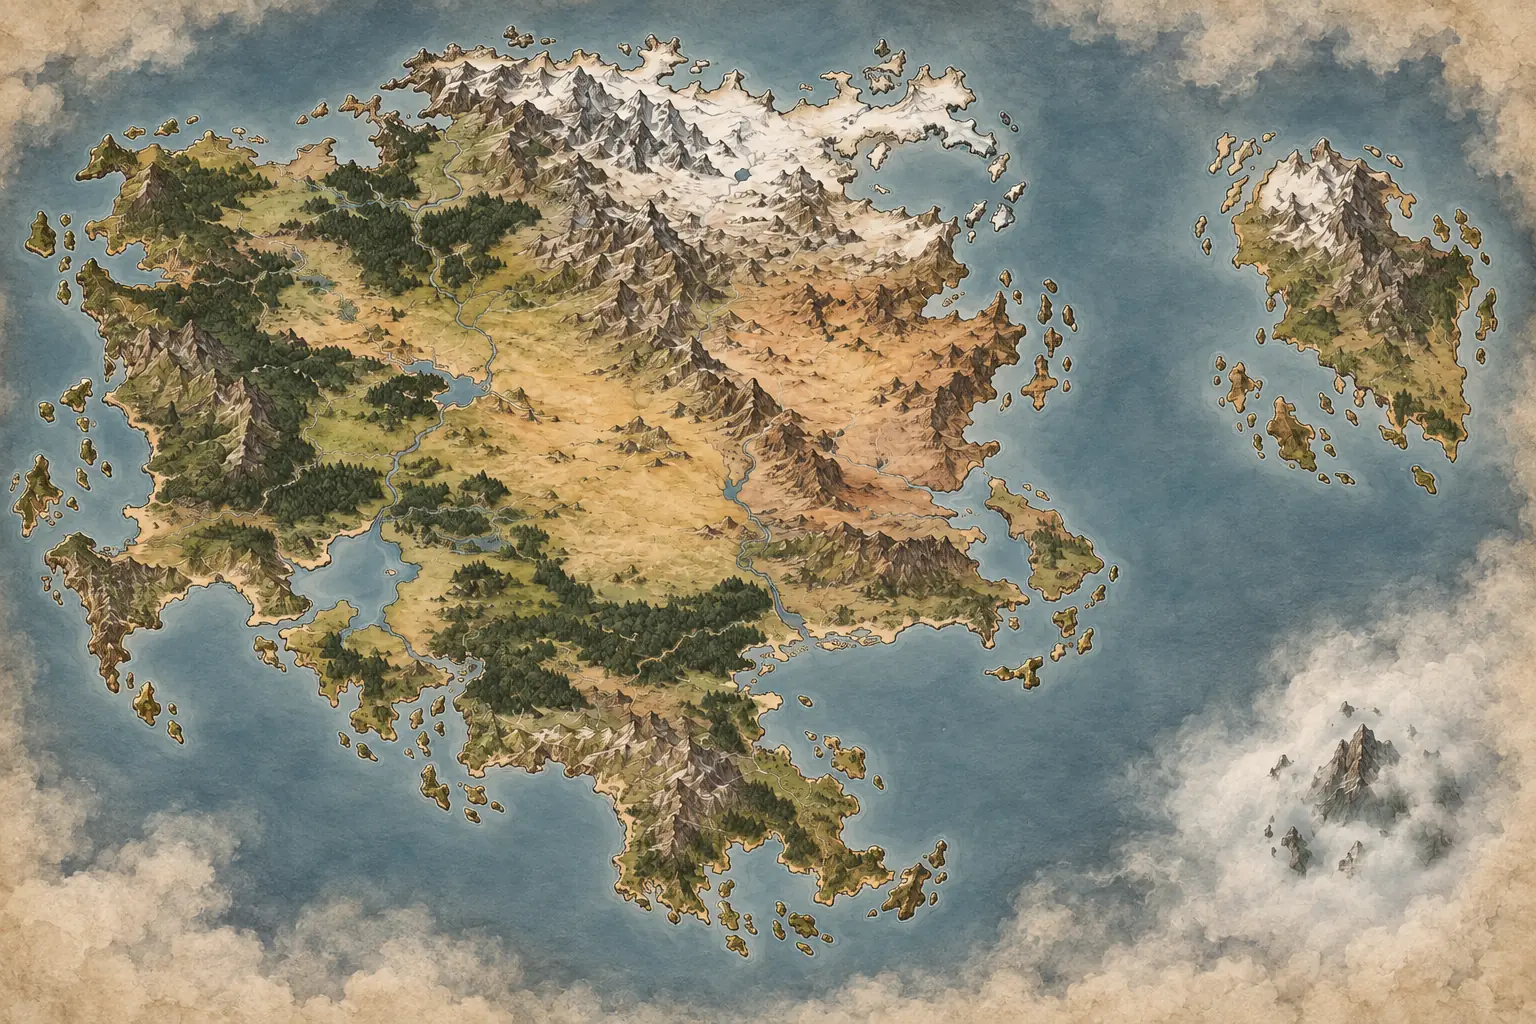
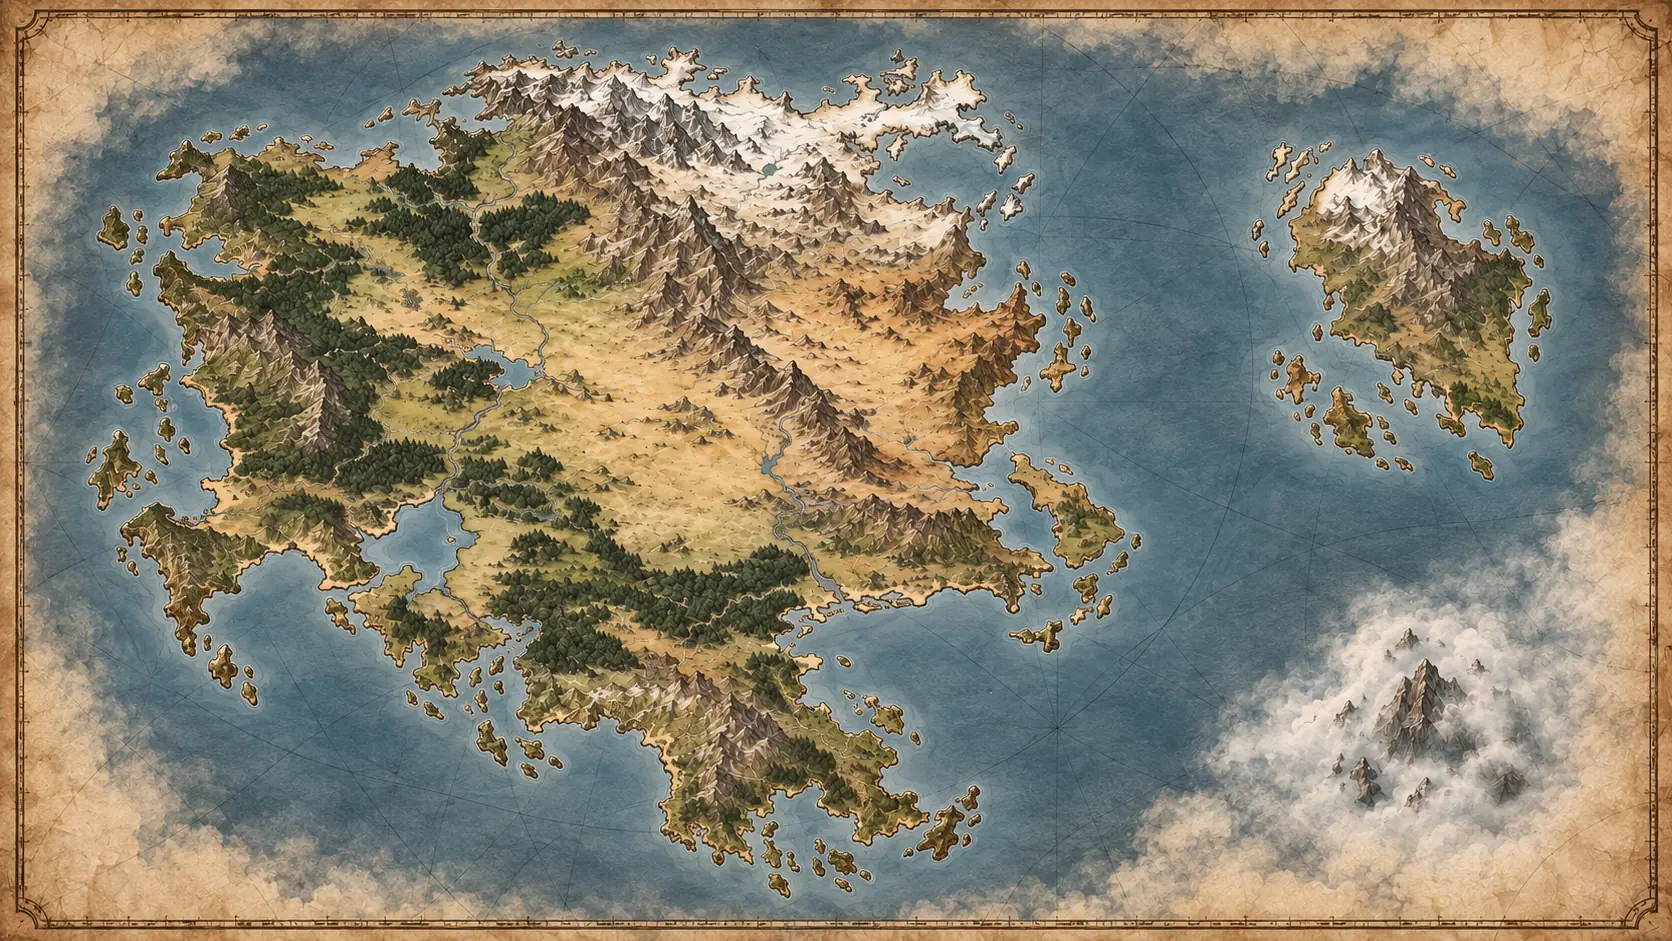
Intègre la nouvelle planche cartographique

diff --git a/resume.html b/resume.html
@@ -92,7 +92,7 @@
         <button class="power-card" role="tab" aria-selected="false" data-power="odren" style="--thumb:url('assets/powers-atlas.webp');--thumb-size:600% auto;--pos:80% center"><span class="power-thumb"></span><span>Odren</span></button>
         <button class="power-card" role="tab" aria-selected="false" data-power="ailleurs" style="--thumb:url('assets/powers-atlas.webp');--thumb-size:600% auto;--pos:100% center"><span class="power-thumb"></span><span>Autres territoires</span></button>
       </div>
-      <div class="power-detail frame" aria-live="polite"><div class="power-copy"><div class="power-heading"><h2 id="power-name">Veyren</h2><p class="power-role" id="power-role">Vieille capitale maritime</p><p class="power-desc" id="power-desc">Cité beaucoup plus ancienne que la monarchie, Veyren s’est accumulée autour d’une immense baie. Son véritable symbole de puissance est l’Arsenal : une ville industrielle dans la ville, capable de construire, réparer et armer une flotte entière.</p><div class="mini-map" id="power-map" data-location="Baie de Veyren" style="--map-pos:40% 68%;--pin-x:52%;--label-x:56%"></div></div><div class="power-facts"><div class="power-fact"><span class="power-icon"><svg><use id="power-org-icon" href="#i-crown"/></svg></span><span><strong>Organisation</strong><span id="power-org">Monarchie du Premier Gardien</span></span></div><div class="power-fact"><span class="power-icon"><svg><use id="power-activity-icon" href="#i-industry"/></svg></span><span><strong>Activités principales</strong><span id="power-activity">Construction navale, administration, commerce</span></span></div><div class="power-fact"><span class="power-icon"><svg><use id="power-trait-icon" href="#i-lighthouse"/></svg></span><span><strong>Particularités</strong><span id="power-trait">L’Arsenal et les anciens nœuds du Courant</span></span></div><div class="power-fact"><span class="power-icon"><svg><use id="power-relation-icon" href="#i-current"/></svg></span><span><strong>Relations</strong><span id="power-relation">Influence ancienne, supériorité navale contestée</span></span></div></div></div><div class="power-visual"><div class="power-visual-image" id="power-visual" style="--visual:url('assets/powers-atlas.webp');--visual-size:600% auto;--visual-pos:0% center"></div><a class="detail-link" href="/" id="power-link">Voir sur la carte →</a></div></div>
+      <div class="power-detail frame" aria-live="polite"><div class="power-copy"><div class="power-heading"><h2 id="power-name">Veyren</h2><p class="power-role" id="power-role">Vieille capitale maritime</p><p class="power-desc" id="power-desc">Cité beaucoup plus ancienne que la monarchie, Veyren s’est accumulée autour d’une immense baie. Son véritable symbole de puissance est l’Arsenal : une ville industrielle dans la ville, capable de construire, réparer et armer une flotte entière.</p><div class="mini-map" id="power-map" data-location="Baie de Veyren" style="--map-pos:40% 56%;--pin-x:52%;--label-x:56%"></div></div><div class="power-facts"><div class="power-fact"><span class="power-icon"><svg><use id="power-org-icon" href="#i-crown"/></svg></span><span><strong>Organisation</strong><span id="power-org">Monarchie du Premier Gardien</span></span></div><div class="power-fact"><span class="power-icon"><svg><use id="power-activity-icon" href="#i-industry"/></svg></span><span><strong>Activités principales</strong><span id="power-activity">Construction navale, administration, commerce</span></span></div><div class="power-fact"><span class="power-icon"><svg><use id="power-trait-icon" href="#i-lighthouse"/></svg></span><span><strong>Particularités</strong><span id="power-trait">L’Arsenal et les anciens nœuds du Courant</span></span></div><div class="power-fact"><span class="power-icon"><svg><use id="power-relation-icon" href="#i-current"/></svg></span><span><strong>Relations</strong><span id="power-relation">Influence ancienne, supériorité navale contestée</span></span></div></div></div><div class="power-visual"><div class="power-visual-image" id="power-visual" style="--visual:url('assets/powers-atlas.webp');--visual-size:600% auto;--visual-pos:0% center"></div><a class="detail-link" href="/" id="power-link">Voir sur la carte →</a></div></div>
     </section>
     <section class="page" id="system" role="tabpanel" aria-labelledby="tab-system" hidden>
       <div class="intro-row"><div><p class="eyebrow">Le réseau</p><h1>Fonctionnement du monde</h1><p class="subtitle">Un système ancien, utilisé chaque jour, dont la forme reste incomprise.</p></div><p class="lede">Les phares ouvrent des nœuds stables dans le Courant. Les sociétés savent s’en servir et en réparer les mécanismes ; personne ne sait encore où passe réellement l’information entre deux nœuds.</p></div>
@@ -108,10 +108,10 @@
     function activatePage(id,{updateHash=true,focus=false}={}){const safe=pages.some(page=>page.id===id)?id:'overview';mainTabs.forEach(tab=>{const active=tab.dataset.tab===safe;tab.setAttribute('aria-selected',String(active));tab.tabIndex=active?0:-1;if(active&&focus)tab.focus()});pages.forEach(page=>{page.hidden=page.id!==safe;if(page.id===safe){page.style.animation='none';page.offsetHeight;page.style.animation=''}});if(updateHash)history.replaceState(null,'','#'+safe);document.title=({overview:'Vue d’ensemble',powers:'Puissances',system:'Fonctionnement',timeline:'Chronologie'}[safe])+' — La Couronne des Brumes'}
     mainTabs.forEach((tab,index)=>{tab.addEventListener('click',()=>activatePage(tab.dataset.tab));tab.addEventListener('keydown',event=>{if(!['ArrowLeft','ArrowRight','Home','End'].includes(event.key))return;event.preventDefault();let next=index;if(event.key==='ArrowRight')next=(index+1)%mainTabs.length;if(event.key==='ArrowLeft')next=(index-1+mainTabs.length)%mainTabs.length;if(event.key==='Home')next=0;if(event.key==='End')next=mainTabs.length-1;activatePage(mainTabs[next].dataset.tab,{focus:true})})});addEventListener('hashchange',()=>activatePage(location.hash.slice(1),{updateHash:false}));
     const powers={
-      veyren:{name:'Veyren',role:'Vieille capitale maritime',desc:'Plus ancienne que la monarchie, Veyren s’est accumulée autour d’une immense baie. Son véritable symbole de puissance est l’Arsenal : une ville dans la ville capable de construire, réparer et armer une flotte entière.',org:'Monarchie du Premier Gardien',activity:'Construction navale, administration, commerce',trait:'Arsenal et nœuds anciens du Courant',relation:'Influence ancienne, supériorité navale contestée',orgIcon:'crown',activityIcon:'industry',traitIcon:'lighthouse',relationIcon:'current',location:'Baie de Veyren',map:'40% 68%',pin:'52%',label:'56%',visual:"url('assets/powers-atlas.webp')",visualSize:'600% auto',visualPos:'0% center'},
+      veyren:{name:'Veyren',role:'Vieille capitale maritime',desc:'Plus ancienne que la monarchie, Veyren s’est accumulée autour d’une immense baie. Son véritable symbole de puissance est l’Arsenal : une ville dans la ville capable de construire, réparer et armer une flotte entière.',org:'Monarchie du Premier Gardien',activity:'Construction navale, administration, commerce',trait:'Arsenal et nœuds anciens du Courant',relation:'Influence ancienne, supériorité navale contestée',orgIcon:'crown',activityIcon:'industry',traitIcon:'lighthouse',relationIcon:'current',location:'Baie de Veyren',map:'40% 56%',pin:'52%',label:'56%',visual:"url('assets/powers-atlas.webp')",visualSize:'600% auto',visualPos:'0% center'},
       marches:{name:'Les Marches',role:'Frontière occidentale fragmentée',desc:'Dans ces archipels, l’autorité des grands États devient intermittente. Ports improvisés, colonies, compagnies privées, communautés isolées et contrebandiers transforment chaque route en négociation.',org:'Pouvoirs locaux et compagnies',activity:'Exploration, négoce, récupération',trait:'Autorité morcelée, territoires mouvants',relation:'Convoitées par toutes les puissances',orgIcon:'society',activityIcon:'ship',traitIcon:'explore',relationIcon:'shield',location:'Archipels occidentaux',map:'8% 52%',pin:'46%',label:'50%',visual:"url('assets/powers-atlas.webp')",visualSize:'600% auto',visualPos:'20% center'},
-      republique:{name:'République marchande',role:'Puissance du crédit et des routes',desc:'À l’est, une république immensément riche agit par les prêts, les approvisionnements et l’accès aux routes plutôt que par la conquête directe. Elle rend les autres puissances dépendantes.',org:'République marchande',activity:'Crédit, commerce, approvisionnement',trait:'Influence indirecte sur les routes',relation:'Partenaire indispensable, rivale patiente',orgIcon:'commerce',activityIcon:'commerce',traitIcon:'current',relationIcon:'shield',location:'Façade orientale',map:'68% 50%',pin:'54%',label:'58%',visual:"url('assets/powers-atlas.webp')",visualSize:'600% auto',visualPos:'40% center'},
-      nord:{name:'Puissance industrielle du Nord',role:'Nouvelle force navale',desc:'Ses chantiers construisent plus vite et expérimentent de nouvelles méthodes. Cette puissance récente n’a pas le prestige de Veyren, mais elle menace directement sa supériorité technique et navale.',org:'Puissance industrielle récente',activity:'Chantiers, construction, expérimentation',trait:'Production navale en forte croissance',relation:'Concurrente directe de Veyren',orgIcon:'industry',activityIcon:'industry',traitIcon:'ship',relationIcon:'cross',location:'Territoires du Nord',map:'45% 8%',pin:'51%',label:'55%',visual:"url('assets/powers-atlas.webp')",visualSize:'600% auto',visualPos:'60% center'},
+      republique:{name:'République marchande',role:'Puissance du crédit et des routes',desc:'À l’est, une république immensément riche agit par les prêts, les approvisionnements et l’accès aux routes plutôt que par la conquête directe. Elle rend les autres puissances dépendantes.',org:'République marchande',activity:'Crédit, commerce, approvisionnement',trait:'Influence indirecte sur les routes',relation:'Partenaire indispensable, rivale patiente',orgIcon:'commerce',activityIcon:'commerce',traitIcon:'current',relationIcon:'shield',location:'Façade orientale',map:'61% 48%',pin:'54%',label:'58%',visual:"url('assets/powers-atlas.webp')",visualSize:'600% auto',visualPos:'40% center'},
+      nord:{name:'Puissance industrielle du Nord',role:'Nouvelle force navale',desc:'Ses chantiers construisent plus vite et expérimentent de nouvelles méthodes. Cette puissance récente n’a pas le prestige de Veyren, mais elle menace directement sa supériorité technique et navale.',org:'Puissance industrielle récente',activity:'Chantiers, construction, expérimentation',trait:'Production navale en forte croissance',relation:'Concurrente directe de Veyren',orgIcon:'industry',activityIcon:'industry',traitIcon:'ship',relationIcon:'cross',location:'Territoires du Nord',map:'47% 16%',pin:'51%',label:'55%',visual:"url('assets/powers-atlas.webp')",visualSize:'600% auto',visualPos:'60% center'},
       odren:{name:'Odren',role:'Empire maritime extérieur',desc:'Séparé du continent principal, Odren appartient à une autre aire maritime du monde connu. Téras reste sa capitale historique, tandis que la Couronne de Sillage porte une partie du gouvernement impérial.',org:'Empire maritime · Premier Continuant',activity:'Navigation, expansion, administration',trait:'Téras et la Couronne de Sillage',relation:'Échanges, rivalité et méfiance',orgIcon:'crown',activityIcon:'ship',traitIcon:'explore',relationIcon:'current',location:'Autre aire maritime',map:'87% 20%',pin:'55%',label:'59%',visual:"url('assets/powers-atlas.webp')",visualSize:'600% auto',visualPos:'80% center'},
       ailleurs:{name:'Autres territoires',role:'Le monde ne s’arrête pas aux cartes',desc:'Le monde connu dépasse les puissances déjà nommées. Des peuples, des ports et des régions existent hors du champ immédiat du récit ; la Couronne garde encore d’autres terres hors de portée.',org:'Structures politiques diverses',activity:'Échanges locaux et routes inconnues',trait:'Zones volontairement ouvertes',relation:'Contacts rares ou inexistants',orgIcon:'society',activityIcon:'explore',traitIcon:'question',relationIcon:'ship',location:'Limites du monde publié',map:'50% 50%',pin:'49%',label:'53%',visual:"url('assets/powers-atlas.webp')",visualSize:'600% auto',visualPos:'100% center'}
     };

diff --git a/index.html b/index.html
@@ -219,7 +219,7 @@
       left:50%;
       top:50%;
       width:min(1400px,calc(100% - 26px),130vh);
-      aspect-ratio:3/2;
+      aspect-ratio:16/9;
       transform-origin:center;
       user-select:none;
       will-change:transform;
@@ -693,25 +693,25 @@
           <div id="scene">
             <img src="/world-map-atlas.webp" alt="Carte illustrée sans texte du monde connu de La Couronne des Brumes">
 
-            <button class="marker city" style="--x:40%;--y:68%" data-point="veyren" type="button" aria-label="Ouvrir la fiche de Veyren" aria-pressed="false">
+            <button class="marker city" style="--x:40%;--y:56%" data-point="veyren" type="button" aria-label="Ouvrir la fiche de Veyren" aria-pressed="false">
               <span class="marker-icon" aria-hidden="true"></span><span class="marker-label">Veyren</span>
             </button>
-            <button class="marker city" style="--x:32%;--y:74%" data-point="veyre" type="button" aria-label="Ouvrir la fiche de Veyre" aria-pressed="false">
+            <button class="marker city" style="--x:63%;--y:55%" data-point="veyre" type="button" aria-label="Ouvrir la fiche de Veyre" aria-pressed="false">
               <span class="marker-icon" aria-hidden="true"></span><span class="marker-label">Veyre</span>
             </button>
             <button class="marker place" style="--x:8%;--y:52%" data-point="marches" type="button" aria-label="Ouvrir la fiche des Marches" aria-pressed="false">
               <span class="marker-icon" aria-hidden="true"></span><span class="marker-label">Les Marches</span>
             </button>
-            <button class="marker mystery" style="--x:7%;--y:65%" data-point="couronne" type="button" aria-label="Ouvrir la fiche de la Couronne" aria-pressed="false">
+            <button class="marker mystery" style="--x:72%;--y:74%" data-point="couronne" type="button" aria-label="Ouvrir la fiche de la Couronne" aria-pressed="false">
               <span class="marker-icon" aria-hidden="true"></span><span class="marker-label">La Couronne</span>
             </button>
             <button class="marker mystery" style="--x:87%;--y:82%" data-point="ile" type="button" aria-label="Ouvrir la fiche de l'île apparue" aria-pressed="false">
               <span class="marker-icon" aria-hidden="true"></span><span class="marker-label">Île apparue</span>
             </button>
-            <button class="marker locked" style="--x:45%;--y:8%" data-point="nord" type="button" aria-label="Ouvrir la fiche de la puissance industrielle du Nord" aria-pressed="false">
+            <button class="marker locked" style="--x:47%;--y:16%" data-point="nord" type="button" aria-label="Ouvrir la fiche de la puissance industrielle du Nord" aria-pressed="false">
               <span class="marker-icon" aria-hidden="true"></span><span class="marker-label">Nord industriel</span>
             </button>
-            <button class="marker locked" style="--x:68%;--y:50%" data-point="republique" type="button" aria-label="Ouvrir la fiche de la République marchande" aria-pressed="false">
+            <button class="marker locked" style="--x:61%;--y:48%" data-point="republique" type="button" aria-label="Ouvrir la fiche de la République marchande" aria-pressed="false">
               <span class="marker-icon" aria-hidden="true"></span><span class="marker-label">République marchande</span>
             </button>
             <button class="marker locked" style="--x:87%;--y:20%" data-point="odren" type="button" aria-label="Ouvrir la fiche d’Odren, détails à développer" aria-pressed="false">
@@ -768,7 +768,7 @@
           label:"Capitale maritime",
           lead:"Une capitale plus vieille que les dynasties qui la gouvernent, accumulée en couches autour d’une immense baie.",
           body:"Dense, populaire, bruyante et profondément tournée vers la mer, Veyren est le cœur de la vieille puissance maritime. Son véritable symbole n’est pas le palais mais l’Arsenal, une ville dans la ville où l’on construit, répare et arme les flottes. Le Courant y sert aux nouvelles, aux ordres, aux cargaisons et aux messages privés ; depuis les hauteurs, la Couronne reste visible à l’horizon.",
-          x:40,y:68,kind:"city",published:true,number:"01",index:"A—01"
+          x:40,y:56,kind:"city",published:true,number:"01",index:"A—01"
         },
         veyre: {
           name:"Veyre",
@@ -776,7 +776,7 @@
           label:"Frontière maritime",
           lead:"Une cité maritime ancienne bâtie au contact des falaises, des marées, des vents violents et de la Couronne.",
           body:"Veyre vit avec la Couronne depuis assez longtemps pour avoir transformé le danger en habitudes : marché à marée basse du Bassin des Noyés, Courses du Bord et Nuits de Couronne. Au début du récit, son phare s’éteint. Le gardien disparaît. Le mécanisme continue pourtant de fonctionner sous la falaise.",
-          x:32,y:74,kind:"city",published:true,number:"02",index:"A—02"
+          x:63,y:55,kind:"city",published:true,number:"02",index:"A—02"
         },
         marches: {
           name:"Les Marches",
@@ -792,7 +792,7 @@
           label:"Limite du monde connu",
           lead:"Une ceinture de brumes et de tempêtes marque la limite supposée du monde navigable.",
           body:"Des phares monumentaux jalonnent cette frontière maritime et sécurisent officiellement les routes. Sa nature exacte reste inconnue. Le Codex s’arrête volontairement ici : ce qui existe au-delà n’est pas publié.",
-          x:7,y:65,kind:"mystery",published:true,number:"04",index:"A—04"
+          x:72,y:74,kind:"mystery",published:true,number:"04",index:"A—04"
         },
         ile: {
           name:"L’île apparue",
@@ -808,7 +808,7 @@
           label:"Chantiers du Nord",
           lead:"Une puissance industrielle récente bouleverse l’équilibre naval du monde connu.",
           body:"Ses chantiers construisent plus vite et expérimentent de nouvelles méthodes. Elle n’a pas le prestige de Veyren, mais menace directement sa supériorité technique et navale.",
-          x:45,y:8,kind:"locked",published:true,status:"Repère de situation · canon publié",number:"06",index:"A—06"
+          x:47,y:16,kind:"locked",published:true,status:"Repère de situation · canon publié",number:"06",index:"A—06"
         },
         republique: {
           name:"République marchande de l’Est",
@@ -816,7 +816,7 @@
           label:"Crédit et routes",
           lead:"Une république marchande immensément riche contrôle les dépendances plutôt que les territoires.",
           body:"Elle agit par les prêts, les approvisionnements et l’accès aux routes, davantage que par la conquête directe. Sa richesse lui permet de devenir indispensable tout en laissant les rivalités ouvertes.",
-          x:68,y:50,kind:"locked",published:true,status:"Repère de situation · canon publié",number:"07",index:"A—07"
+          x:61,y:48,kind:"locked",published:true,status:"Repère de situation · canon publié",number:"07",index:"A—07"
         },
         odren: {
           name:"Odren",
